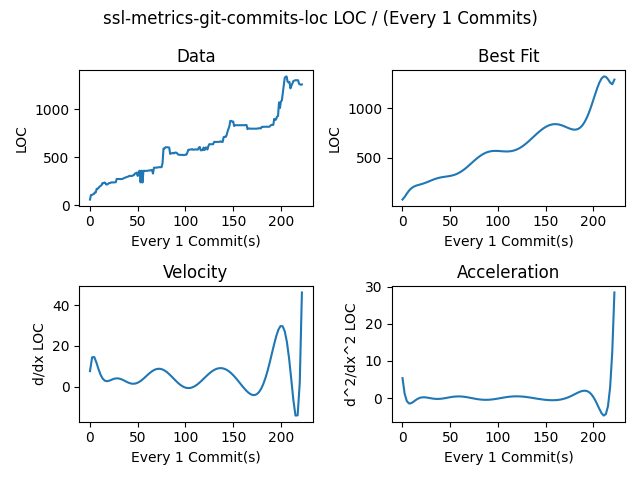
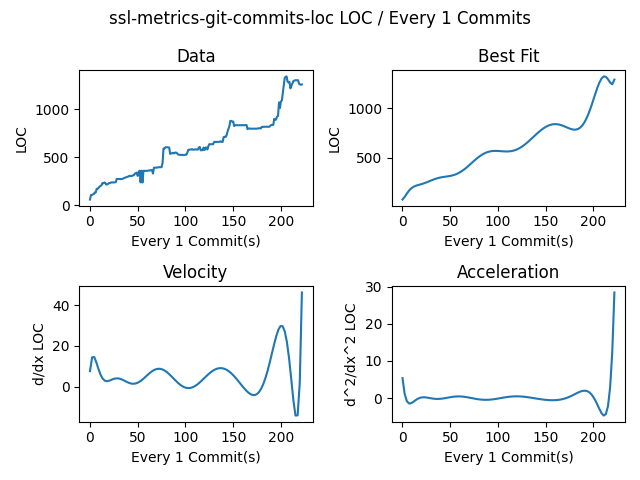
Add new graphs with better titles

Changed region(s): [[0.1562, 0.0, 0.8438, 0.0625]]

diff --git a/ssl_metrics_git_commits_loc/create_graph.py b/ssl_metrics_git_commits_loc/create_graph.py
@@ -282,7 +282,7 @@ def main() -> None:
     df: DataFrame = pandas.read_json(args.input)
 
     t: str = (
-        lambda typeOfGraph, repositoryName, yUnits: f"{typeOfGraph}{repositoryName} {yUnits} / (Every {args.stepper} Commits)"
+        lambda typeOfGraph, repositoryName, yUnits: f"{typeOfGraph}{repositoryName} {yUnits} / Every {args.stepper} Commits"
     )
     x: list = lambda maxValue: [x for x in range(len(df["loc_sum"]))][
         args.x_min : maxValue : args.stepper
